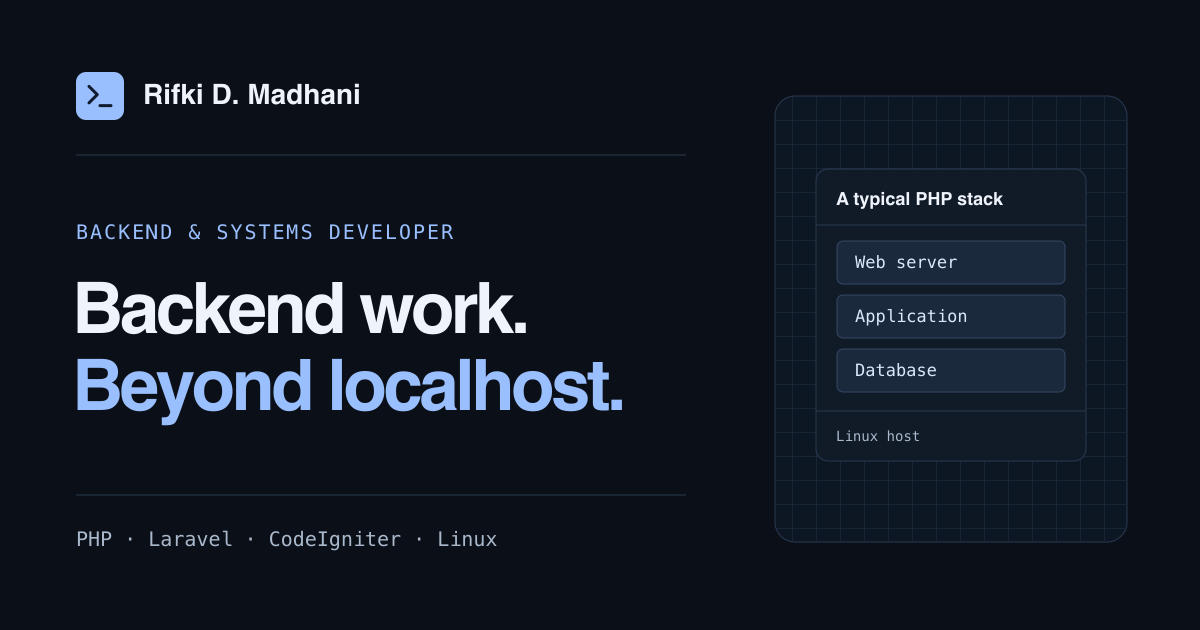
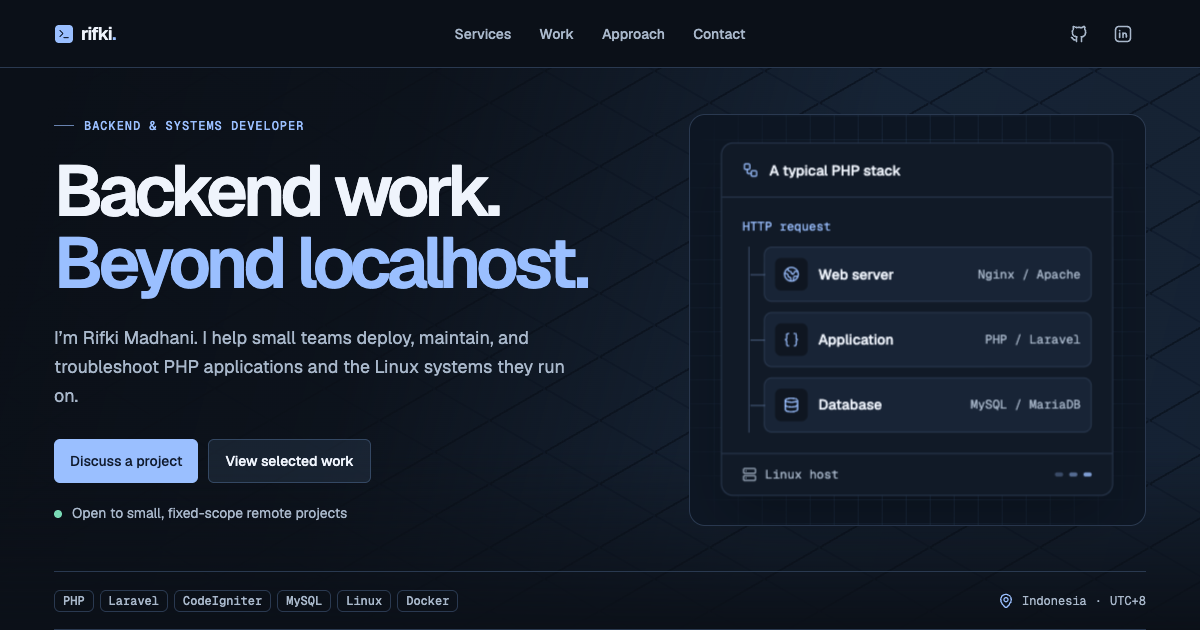
improve google search appearance

diff --git a/app/page.tsx b/app/page.tsx
@@ -10,7 +10,7 @@ import { Badge } from "@/components/ui/badge";
 import { Button } from "@/components/ui/button";
 import { Card, CardContent, CardHeader } from "@/components/ui/card";
 import { ResizableNavbar } from "@/components/ui/resizable-navbar";
-import { approach, caseStudies, profile, services, stack } from "@/lib/portfolio";
+import { approach, caseStudies, profile, services, siteUrl, stack } from "@/lib/portfolio";
 
 const navigation = [
   { label: "Services", href: "#services" },
@@ -31,9 +31,27 @@ const socialProfiles = [
   { label: "X", href: profile.x, Icon: IconBrandX },
 ];
 
+const structuredData = {
+  "@context": "https://schema.org",
+  "@type": "WebSite",
+  name: profile.name,
+  url: siteUrl.href,
+  publisher: {
+    "@type": "Person",
+    name: profile.name,
+    jobTitle: profile.role,
+    url: siteUrl.href,
+    sameAs: socialProfiles.map(({ href }) => href),
+  },
+};
+
 export default function Home() {
   return (
     <>
+      <script
+        type="application/ld+json"
+        dangerouslySetInnerHTML={{ __html: JSON.stringify(structuredData).replace(/</g, "\\u003c") }}
+      />
       <a className="skip-link" href="#main">Skip to content</a>
       <ResizableNavbar
         links={navigation}
@@ -71,7 +89,7 @@ export default function Home() {
                   <span className="block text-primary">Beyond localhost.</span>
                 </h1>
                 <p className="mt-4 max-w-[43ch] text-base leading-relaxed text-muted-foreground sm:mt-6 sm:text-lg">
-                  I’m Rifki. I help small teams deploy, maintain, and troubleshoot
+                  I’m {profile.name}. I help small teams deploy, maintain, and troubleshoot
                   PHP applications and the Linux systems they run on.
                 </p>
                 <div className="mt-5 flex flex-wrap gap-2.5 sm:mt-7">
@@ -187,7 +205,7 @@ export default function Home() {
                 <span className="grid size-9 shrink-0 place-items-center rounded-lg bg-primary/10">
                   <Mail className="size-5" aria-hidden="true" />
                 </span>
-                <span className="select-all">{profile.email}</span>
+                <span className="select-all" data-nosnippet="">{profile.email}</span>
               </a>
               <nav aria-label="Social profiles" className="flex justify-center gap-3">
                 {socialProfiles.map(({ label, href, Icon }) => (
@@ -204,7 +222,7 @@ export default function Home() {
       </main>
 
       <footer className="border-t border-border">
-        <div className="page-frame flex flex-wrap items-center justify-between gap-2 py-4 text-sm text-muted-foreground">
+        <div className="page-frame flex flex-wrap items-center justify-between gap-2 py-4 text-sm text-muted-foreground" data-nosnippet="">
           <p>{profile.name} <span className="mx-1">·</span> Indonesia</p>
           <a href={`mailto:${profile.email}`} className="inline-flex min-h-11 items-center rounded underline underline-offset-4 hover:text-primary">
             {profile.email}

diff --git a/app/layout.tsx b/app/layout.tsx
@@ -4,16 +4,13 @@ import type { ReactNode } from "react";
 import "@fontsource-variable/geist/wght.css";
 import "@fontsource-variable/geist-mono/wght.css";
 
-import { profile } from "@/lib/portfolio";
+import { profile, siteUrl } from "@/lib/portfolio";
 import "./globals.css";
 
 const title = `${profile.name} — ${profile.role}`;
-const siteUrl = process.env.SITE_URL;
 const basePath = process.env.SITE_BASE_PATH ?? "";
-const metadataBase = siteUrl ? new URL(siteUrl) : undefined;
-const socialImage = metadataBase
-  ? new URL(`${basePath}/social-card.png`, metadataBase.origin)
-  : undefined;
+const faviconPath = `${basePath}/favicon`;
+const socialImage = new URL(`${basePath}/social-card.png`, siteUrl);
 
 export const metadata: Metadata = {
   title,
@@ -21,28 +18,30 @@ export const metadata: Metadata = {
   authors: [{ name: profile.name }],
   icons: {
     icon: [
-      { url: `${basePath}/icon.svg`, sizes: "any", type: "image/svg+xml" },
-      { url: `${basePath}/favicon-32.png`, sizes: "32x32", type: "image/png" },
+      { url: `${faviconPath}/android-chrome-192x192.png`, sizes: "192x192", type: "image/png" },
+      { url: `${faviconPath}/favicon.ico`, sizes: "16x16 32x32 48x48", type: "image/x-icon" },
+      { url: `${faviconPath}/favicon-16x16.png`, sizes: "16x16", type: "image/png" },
+      { url: `${faviconPath}/favicon-32x32.png`, sizes: "32x32", type: "image/png" },
     ],
-    apple: { url: `${basePath}/apple-touch-icon.png`, sizes: "180x180" },
+    apple: { url: `${faviconPath}/apple-touch-icon.png`, sizes: "180x180", type: "image/png" },
   },
-  ...(siteUrl && {
-    metadataBase,
-    alternates: { canonical: siteUrl },
-  }),
+  manifest: `${faviconPath}/site.webmanifest`,
+  metadataBase: siteUrl,
+  alternates: { canonical: siteUrl },
   openGraph: {
     title,
     description: profile.description,
     type: "website",
     locale: "en_US",
-    ...(siteUrl && { url: siteUrl }),
-    ...(socialImage && { images: [{ url: socialImage, width: 1200, height: 630, alt: title }] }),
+    url: siteUrl,
+    siteName: profile.name,
+    images: [{ url: socialImage, width: 1200, height: 630, alt: title }],
   },
   twitter: {
     card: "summary_large_image",
     title,
     description: profile.description,
-    ...(socialImage && { images: [socialImage] }),
+    images: [socialImage],
   },
 };
 

diff --git a/lib/portfolio.ts b/lib/portfolio.ts
@@ -1,8 +1,10 @@
+export const siteUrl = new URL(process.env.SITE_URL || "https://rifkimadhani.web.id/");
+
 export const profile = {
   name: "Rifki Madhani",
   role: "Backend & Systems Developer",
   description:
-    "Rifki Madhani, a backend & systems developer, helps small teams deploy, maintain, and troubleshoot PHP applications and Linux-hosted services.",
+    "Rifki Madhani is a backend and systems developer in Indonesia. Explore his work with PHP, Laravel, CodeIgniter, and Linux deployment and troubleshooting.",
   email: "hi@rifkimadhani.web.id",
   linkedin: "https://www.linkedin.com/in/rifkimadhani",
   github: "https://github.com/rifkimadhani",

diff --git a/app/robots.ts b/app/robots.ts
@@ -1,0 +1,12 @@
+import type { MetadataRoute } from "next";
+
+import { siteUrl } from "@/lib/portfolio";
+
+export const dynamic = "force-static";
+
+export default function robots(): MetadataRoute.Robots {
+  return {
+    rules: { userAgent: "*", allow: "/" },
+    sitemap: `${siteUrl.href.replace(/\/$/, "")}/sitemap.xml`,
+  };
+}

diff --git a/app/sitemap.ts b/app/sitemap.ts
@@ -1,0 +1,9 @@
+import type { MetadataRoute } from "next";
+
+import { siteUrl } from "@/lib/portfolio";
+
+export const dynamic = "force-static";
+
+export default function sitemap(): MetadataRoute.Sitemap {
+  return [{ url: siteUrl.href }];
+}
